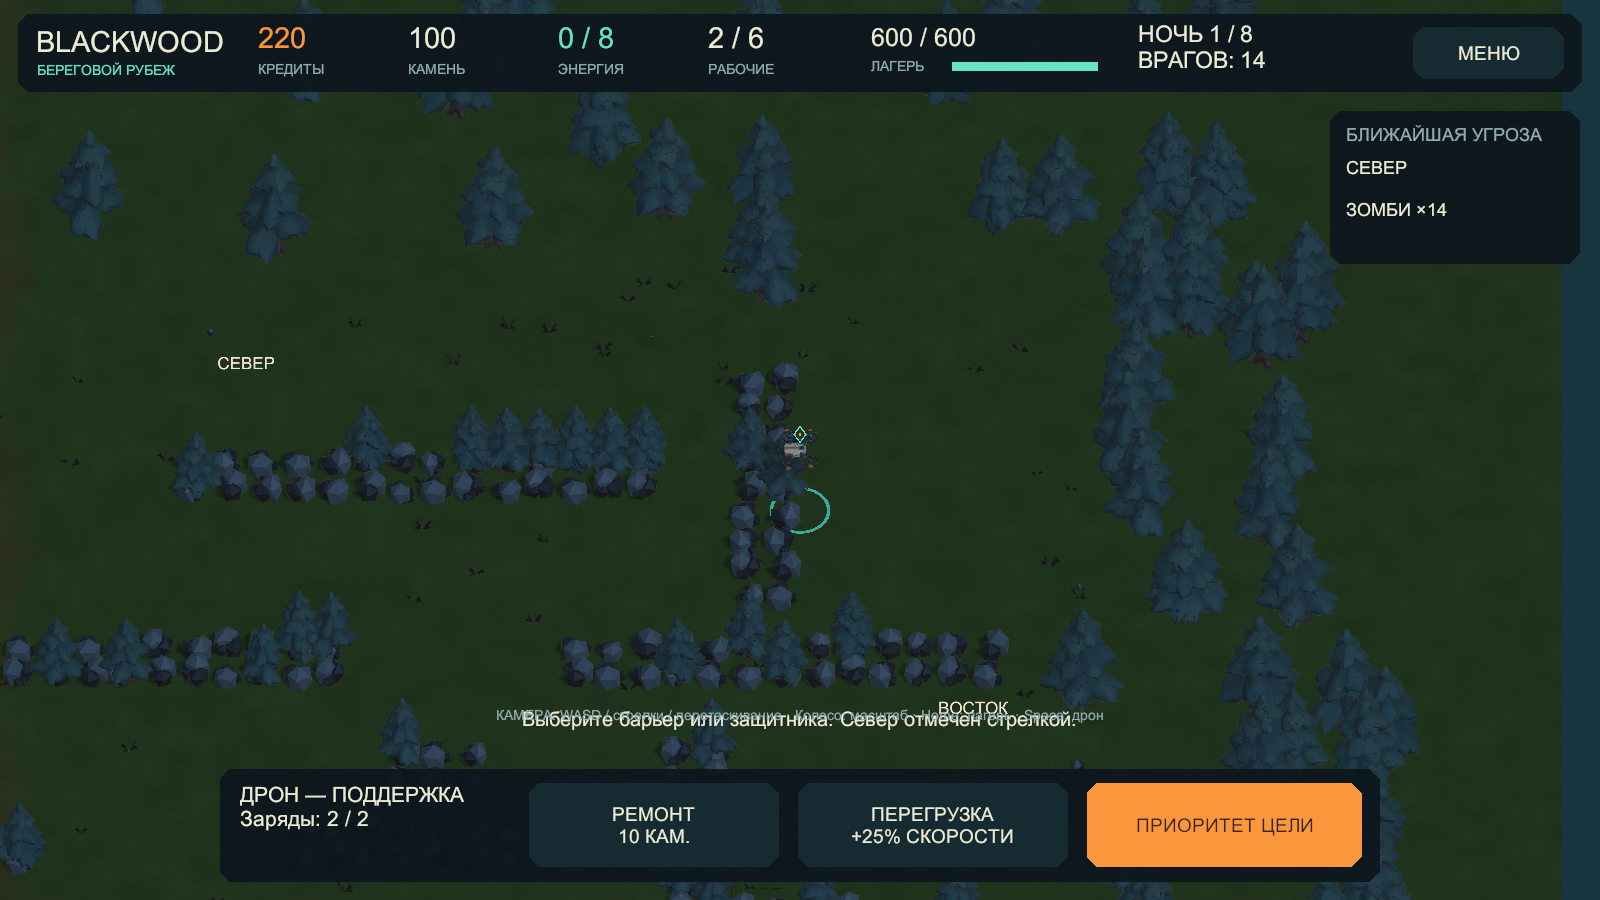
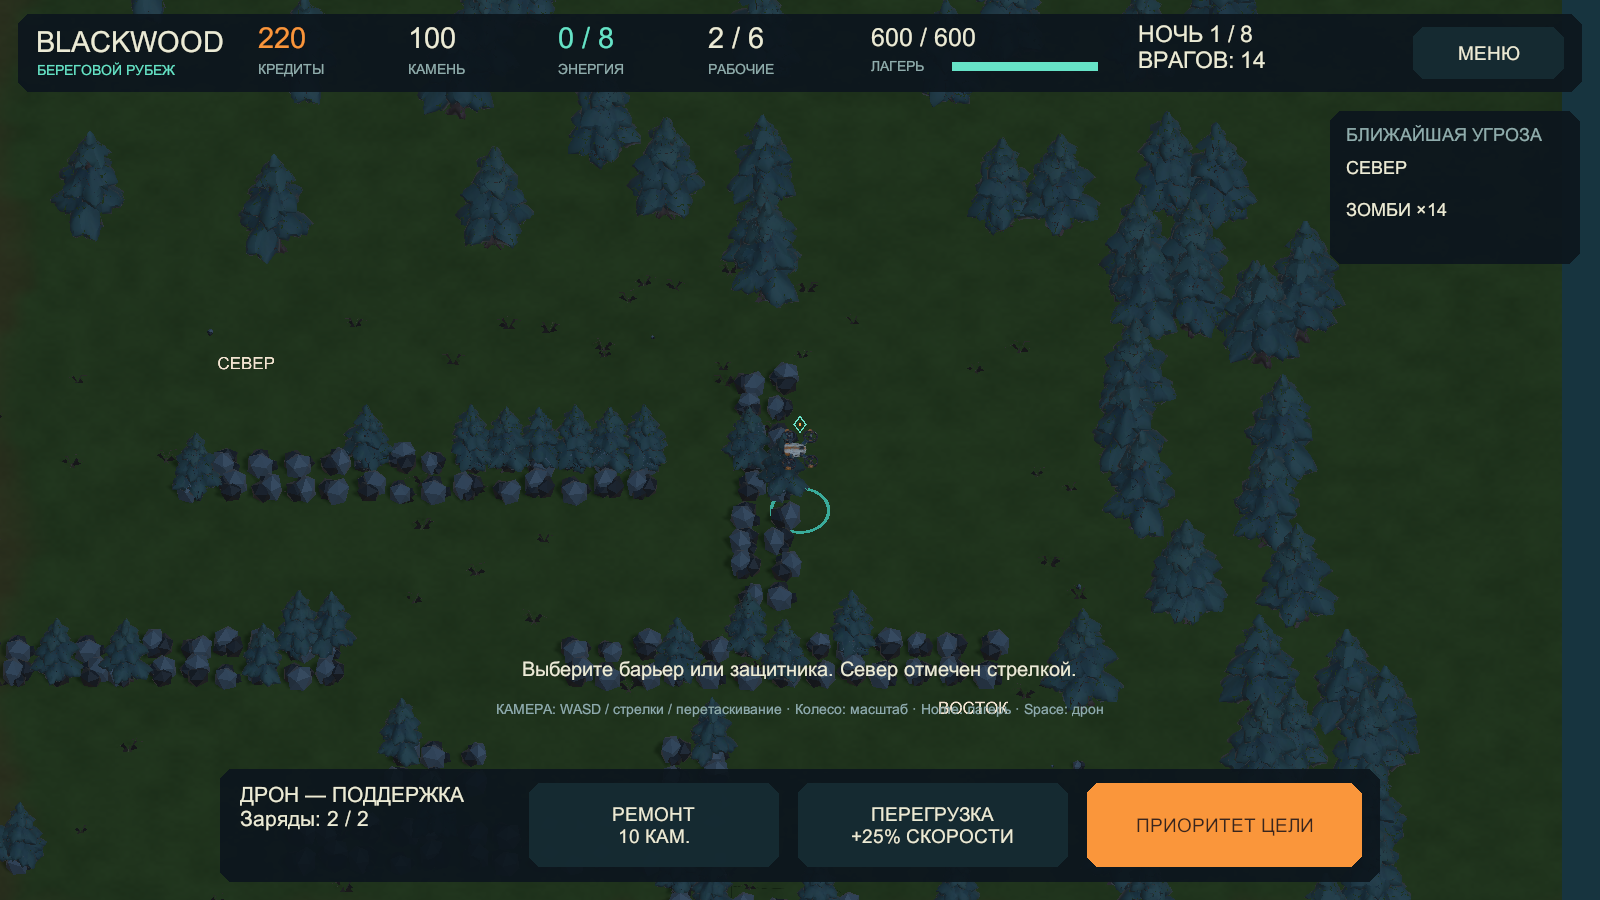
blackwood: improve drone readability and camera focus

Changed region(s): [[0.3125, 0.7156, 0.6875, 0.8089]]

diff --git a/The Gloom of Blackwood/Assets/DawnGuard/BlackwoodLTD/Runtime/CoastHud.cs b/The Gloom of Blackwood/Assets/DawnGuard/BlackwoodLTD/Runtime/CoastHud.cs
@@ -62,8 +62,8 @@ namespace DawnGuard.BlackwoodLTD
             Button(top.transform,"МЕНЮ",1395,-13,151,52,()=>root.OpenMenu());
             var forecast=Box(gameUi.transform,"Wave forecast",new Vector2(1,1),new Vector2(-270,-111),new Vector2(250,153),Ink);
             Text(forecast.transform,"БЛИЖАЙШАЯ УГРОЗА",16,-14,220,27,18,Muted);threat=Text(forecast.transform,"",16,-47,220,91,20,Cream);
-            notice=Text(gameUi.transform,"",0,0,990,46,20,Cream);var nr=notice.rectTransform;nr.anchorMin=nr.anchorMax=new Vector2(.5f,0);nr.anchoredPosition=new Vector2(-495,204);notice.alignment=TextAnchor.MiddleCenter;
-            var cameraHint=Text(gameUi.transform,"КАМЕРА: WASD / стрелки / перетаскивание · Колесо: масштаб · Home: лагерь · Space: дрон",0,0,1050,24,14,Muted);var cr=cameraHint.rectTransform;cr.anchorMin=cr.anchorMax=new Vector2(.5f,0);cr.anchoredPosition=new Vector2(-525,197);cameraHint.alignment=TextAnchor.MiddleCenter;
+            notice=Text(gameUi.transform,"",0,0,990,46,20,Cream);var nr=notice.rectTransform;nr.anchorMin=nr.anchorMax=new Vector2(.5f,0);nr.anchoredPosition=new Vector2(-495,254);notice.alignment=TextAnchor.MiddleCenter;
+            var cameraHint=Text(gameUi.transform,"КАМЕРА: WASD / стрелки / перетаскивание · Колесо: масштаб · Home: лагерь · Space: дрон",0,0,1050,24,14,Muted);var cr=cameraHint.rectTransform;cr.anchorMin=cr.anchorMax=new Vector2(.5f,0);cr.anchoredPosition=new Vector2(-525,203);cameraHint.alignment=TextAnchor.MiddleCenter;
         }
         void BuildDroneIndicator()
         {
@@ -72,8 +72,9 @@ namespace DawnGuard.BlackwoodLTD
             go.GetComponent<BlackwoodPanel>().raycastTarget=false;
             droneEdge=go.GetComponent<RectTransform>();droneEdge.pivot=new Vector2(.5f,.5f);
             var label=Text(go.transform,"ДРОН\nSpace",29,-4,70,44,15,Mint);label.alignment=TextAnchor.MiddleCenter;
-            var arrow=Text(go.transform,"›",2,-11,28,30,30,Orange);arrow.alignment=TextAnchor.MiddleCenter;
-            droneArrow=arrow.rectTransform;droneArrow.pivot=new Vector2(.5f,.5f);droneArrow.anchoredPosition=new Vector2(16,-26);
+            var arrow=new GameObject("Direction arrow",typeof(RectTransform),typeof(CanvasRenderer),typeof(CoastDroneArrow));arrow.transform.SetParent(go.transform,false);
+            var graphic=arrow.GetComponent<CoastDroneArrow>();graphic.color=Orange;graphic.raycastTarget=false;
+            droneArrow=graphic.rectTransform;droneArrow.anchorMin=droneArrow.anchorMax=new Vector2(0,1);droneArrow.sizeDelta=new Vector2(26,26);droneArrow.anchoredPosition=new Vector2(16,-26);
             go.SetActive(false);
         }
         void UpdateDroneIndicator()
@@ -235,5 +236,17 @@ namespace DawnGuard.BlackwoodLTD
         {var bg=color??Panel;var go=Box(parent,label,new Vector2(0,1),new Vector2(x,y),new Vector2(width,height),bg);var b=go.AddComponent<Button>();b.targetGraphic=go.GetComponent<BlackwoodPanel>();var colors=b.colors;colors.normalColor=Color.white;colors.highlightedColor=new Color(1.15f,1.15f,1.15f);colors.pressedColor=new Color(.75f,.9f,.9f);colors.disabledColor=new Color(.4f,.45f,.45f);b.colors=colors;b.onClick.AddListener(()=>{if(root.Audio!=null)root.Audio.Click();callback();});var t=Text(go.transform,label,8,-4,width-16,height-8,19,color.HasValue?Ink:Cream);t.alignment=TextAnchor.MiddleCenter;return b;}
         void Icon(Transform parent,Sprite sprite,float x,float y,float width,float height)
         {var go=new GameObject("Icon",typeof(RectTransform),typeof(CanvasRenderer),typeof(Image));go.transform.SetParent(parent,false);var r=go.GetComponent<RectTransform>();r.anchorMin=r.anchorMax=new Vector2(0,1);r.pivot=new Vector2(0,1);r.anchoredPosition=new Vector2(x,y);r.sizeDelta=new Vector2(width,height);var image=go.GetComponent<Image>();image.sprite=sprite;image.preserveAspect=true;image.raycastTarget=false;}
+    }
+    public sealed class CoastDroneArrow : Graphic
+    {
+        protected override void OnPopulateMesh(VertexHelper mesh)
+        {
+            mesh.Clear();var r=rectTransform.rect;
+            mesh.AddVert(new Vector3(r.width*-.35f,r.height*-.4f),color,Vector2.zero);
+            mesh.AddVert(new Vector3(r.width*.4f,0),color,Vector2.zero);
+            mesh.AddVert(new Vector3(r.width*-.35f,r.height*.4f),color,Vector2.zero);
+            mesh.AddVert(new Vector3(r.width*-.1f,0),color,Vector2.zero);
+            mesh.AddTriangle(0,1,3);mesh.AddTriangle(1,2,3);
+        }
     }
 }

diff --git a/The Gloom of Blackwood/Assets/DawnGuard/BlackwoodLTD/Runtime/CoastDronePresentation.cs b/The Gloom of Blackwood/Assets/DawnGuard/BlackwoodLTD/Runtime/CoastDronePresentation.cs
@@ -54,7 +54,7 @@ namespace DawnGuard.BlackwoodLTD
             float top=transform.position.y+.9f;
             foreach(var r in Visual.GetComponentsInChildren<Renderer>())top=Mathf.Max(top,r.bounds.max.y);
             OverheadMarker=new GameObject("Drone overhead diamond").transform;OverheadMarker.SetParent(transform,false);
-            OverheadMarker.position=new Vector3(transform.position.x,top+.35f,transform.position.z);
+            OverheadMarker.position=new Vector3(transform.position.x,top+.8f,transform.position.z);
             var diamond=Stroke(OverheadMarker,"Teal diamond",teal,.038f);
             diamond.loop=true;diamond.positionCount=4;
             diamond.SetPositions(new[]{new Vector3(0,.23f,0),new Vector3(.17f,0,0),new Vector3(0,-.23f,0),new Vector3(-.17f,0,0)});

diff --git a/The Gloom of Blackwood/IntegrationEvidence/WORK_STATE_RU.md b/The Gloom of Blackwood/IntegrationEvidence/WORK_STATE_RU.md
@@ -1,3 +1,14 @@
+Актуальный этап: STEP 3A — Drone Readability + Camera Focus, 10.09.2026 — PASS.
+Visual дрона увеличен на 30%, локально поднят на 0.25; root/скорость/логика/коллизии не менялись.
+Дрон: source.dronePrefab → BlackwoodV2/Generated/UserMap/User_drone.prefab → CoastWorld.Place → CoastDronePresentation.
+Кольцо: 96 треугольников, один прозрачный URP Unlit material, y=0.035; overhead — billboard diamond + amber accent.
+Space (Input System) плавно фокусирует существующую камеру; WASD/drag/zoom/Home и bounds сохранены.
+Offscreen-стрелка создаётся один раз в существующем Canvas; меню/пауза/service скрывают её. Подсказки HUD разнесены.
+Unity Compile PASS, Play Mode PASS: X/Z на четырёх участках, Space через Input System, bounds, день/ночь/max zoom, UI CanvasRenderer, 0 exceptions.
+Scene View: медиана 6.995 → 7.116 мс, P95 8.089 → 8.121 мс; без заметного ухудшения, не standalone FPS.
+Доказательства: DroneReadability/*; Performance/step3-*-summary.txt и samples.csv.
+Recon scaffold пропущен как необязательный. Fog of War/гранаты/экономика/лес не менялись.
+Пользователь во время завершения сменил следующую задачу на STEP 4 — OPERATOR CORE + ENEMY INTEGRATION.
 Актуальная версия: BlackwoodLTD / береговой рубеж, функциональная альфа.
 Последний этап: ШАГ 2 — LARGE MAP / MAZE GREYBOX / CAMERA, 10.09.2026 — PASS.
 Логическое поле 44×36, единичный масштаб клеток сохранён. SOUTH — берег, Main Shelter x=22/z=5.2, цель пути (21,7), Drone Pad рядом (25.5,1).
@@ -25,3 +36,18 @@ Profiler, полная инвентаризация, ограничения Unit
 Фактическое состояние и план: ../Design/Blackwood_LTD_Concept_2026-09-09/STATUS_AND_ROADMAP_RU_2026-09-10.md.
 Текущие отчёты новой версии: Coast/core-checks.txt, Coast/play-result.txt, Coast/rollback-check.txt.
 Отчёты в корне IntegrationEvidence относятся к предыдущей V2, если в них явно не указано иное.
+
+
+## NEXT THREAD
+1. Сцена: Assets/DawnGuard/BlackwoodLTD/Scenes/BlackwoodCoast.unity; ветка codex/blackwood-integration-v2.
+2. Работают меню, день/ночь, строительство, турели, враги, пути и большая береговая карта.
+3. Forest pass: 24 ближних дерева с LOD, 132 кроны/6 кластеров карты, 40 крон/3 кластера меню; instancing; тени лишь у 8 LOD0; без Collider/NavMesh.
+4. Карта 44×36; SOUTH берег; camp x22/z5.2, goal (21,7); камера size8–13, focus x4..40/z5..33.
+5. Дрон: Visual ×1.3 и +0.25y; кольцо у земли; overhead diamond; Space focus; HUD offscreen arrow.
+6. Код: Runtime/CoastDronePresentation.cs, CoastWorld.cs, CoastCameraRig.cs, CoastRoot.cs, CoastHud.cs (всё в BlackwoodLTD).
+7. Проверки: CoastVerification.cs, команда drone-checks через IntegrationEvidence/Coast/command.txt; тестовые сохранения в Temp.
+8. Не сделаны: Recon/Fog of War/scaffold, граната, новые workers, экономика, старт MainShelter+DronePad.
+9. Новый запрос пользователя: сначала STEP 4 — Operator Core, Operator HP, новые враги и foundation Night 1–3.
+10. После STEP 4 прежняя очередь: DRONE RECON + LIGHTWEIGHT FOG OF WAR.
+11. После Recon: START PROGRESSION — только MainShelter + DronePad.
+12. После этого: DRONE GRENADE SYSTEM.
